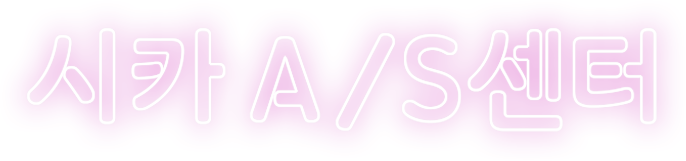
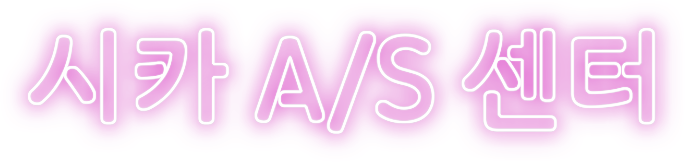
모바일 네온 타이틀 수정

diff --git a/m/css/style.css b/m/css/style.css
@@ -157,8 +157,8 @@ html, body {
 }
 .content.main .content-wrap .inner .desc-area .neon-on-title {
 	position: absolute;
-	top: -8.8%;
-	left: -1.6%;
+	top: -7.6%;
+	left: -1.7%;
 	width: 100%;
 }
 .content.main .content-wrap .inner .desc-area .desc-wrap {
@@ -601,8 +601,8 @@ html, body {
 }
 .content.info .title .neon-on-title {
 	position: absolute;
-	top: -10.8%;
-	left: -2.1%;
+	top: -8.7%;
+	left: -2%;
 	width: 100%;
 }
 .content.info .desc-title {
